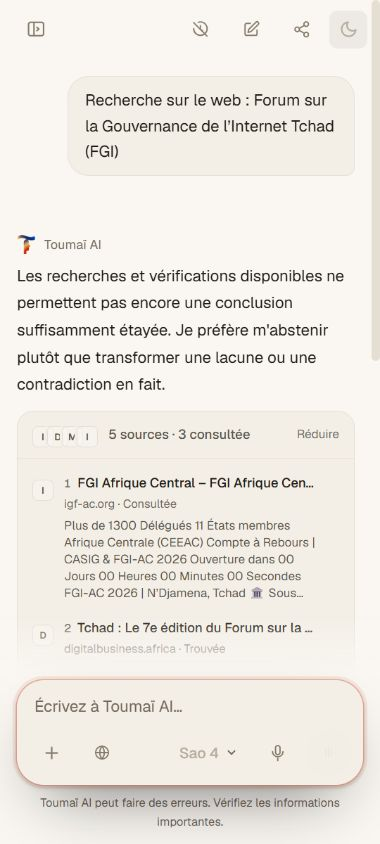
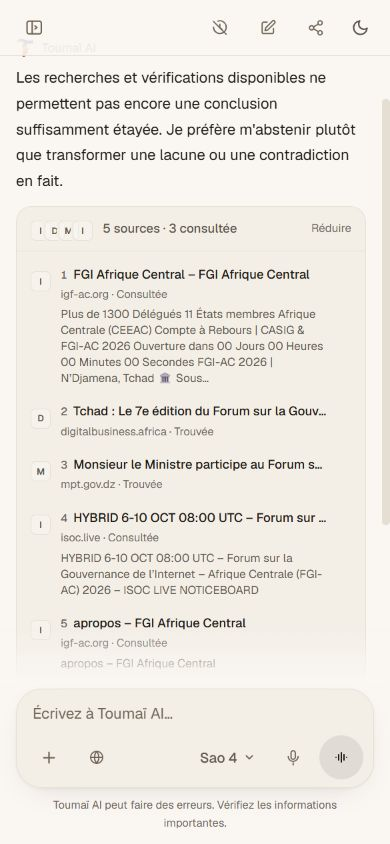
docs(ui2): repair viewport evidence

diff --git a/TOUMAI_CHAT_UI2_IMPLEMENTATION.md b/TOUMAI_CHAT_UI2_IMPLEMENTATION.md
@@ -92,6 +92,13 @@ After:
 - `output/ui2/after-stop-generation-1440x900-light.png`
 - `output/ui2/after-long-draft-360x800-light.png`
 
+### Evidence integrity repair
+
+- `after-light-1440x900.png` and `after-light-390x844.png` were recaptured from the authenticated certified UI-2 preview at their exact named viewport dimensions.
+- `before-ux006-a11y-390x844-dark.png` was recaptured at 390 x 844 from the authenticated historical UI-1 preview in dark theme. That runtime measured the three scoped composer controls at 36 x 36 px and retained the pre-fix disclaimer colors.
+- All 19 PNG evidence files were decoded and checked against the dimensions encoded in their filenames: `19 valid`, `0 invalid`.
+- This evidence correction changed no runtime, test or configuration file.
+
 ## Certification
 
 - `UX-006 = FIXED_AND_VERIFIED`
